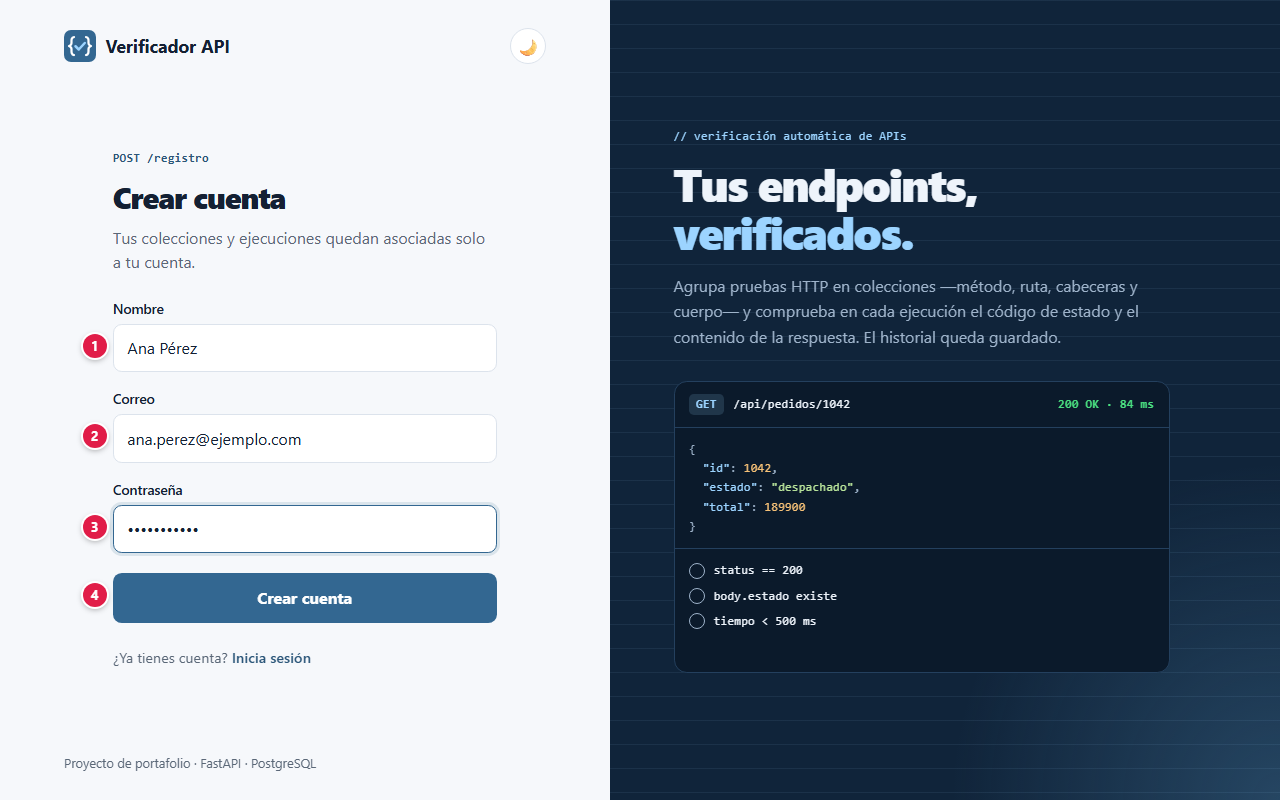
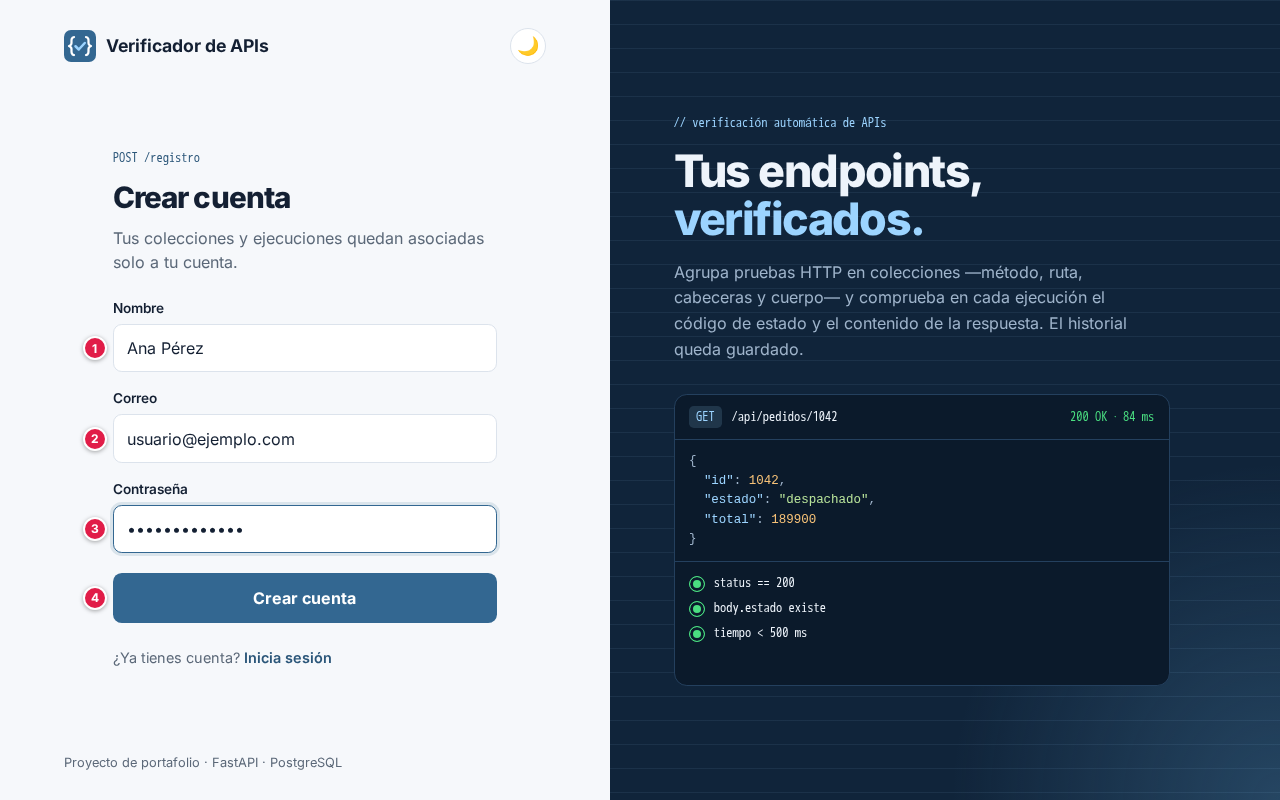
docs: recuperación del autenticador, cierre de sesiones y capturas con "Verificador de APIs" [skip ci]
- Manual y README: "Perdí mi autenticador", el enlace de restablecer solo pide nueva +
  confirmación, se cierran las sesiones y la verificación en dos pasos sigue activa;
  cómo correr las pruebas automáticas.
- Capturas 01 a 07 regeneradas con el nombre nuevo (marcadores 4 y 8 de 04 y 05 ahora
  apuntan a "Crear" y "Guardar prueba"); nueva 08 con la pantalla del código.
- Diagrama de arquitectura con el nombre visible.

diff --git a/docs/MANUAL.md b/docs/MANUAL.md
@@ -1,9 +1,9 @@
-# 📘 Manual de usuario · Verificador API
+# 📘 Manual de usuario · Verificador de APIs
 
 Guía para usar la plataforma paso a paso: qué significa cada campo, qué datos se ingresan y qué
 protege la plataforma. Para la parte técnica vuelve al [README](../README.md).
 
-**Demo:** [Verificador API (AWS Lambda)](https://eofvlnitsiuodup4eywdcenxwu0adgbz.lambda-url.us-east-1.on.aws/)
+**Demo:** [Verificador de APIs (AWS Lambda)](https://eofvlnitsiuodup4eywdcenxwu0adgbz.lambda-url.us-east-1.on.aws/)
 
 ## Contenido
 
@@ -92,6 +92,17 @@ Qué servicio de nube, base de datos o API usa el proyecto y para qué sirve cad
 | 1 | Correo | El correo de tu cuenta |
 | 2 | Contraseña | Tu contraseña |
 | 3 | Entrar | Pide el código de tu verificación en dos pasos; al escribirlo y pulsar **Verificar** se abre **Mis colecciones** |
+| 4 | ¿Olvidaste tu contraseña? | Abre la recuperación de contraseña (ver más abajo) |
+
+Después de **Entrar** aparece la pantalla del código:
+
+![Pantalla del código de la verificación en dos pasos](img/manual/08-verificacion.png)
+
+| # | Elemento | Qué hacer |
+|:-:|---|---|
+| 1 | Código de 6 dígitos | El código que muestra tu app autenticadora (o el que te llegó al correo) |
+| 2 | Verificar | Abre **Mis colecciones** |
+| 3 | Perdí mi autenticador | Si ya no tienes la app: te envía un código al correo (ver **Perdí mi autenticador**) |
 
 ### Olvidé mi contraseña
 
@@ -99,9 +110,29 @@ En **Iniciar sesión**, pulsa **¿Olvidaste tu contraseña?** y escribe tu corre
 está activa, te llega un enlace para crear una contraseña nueva (mínimo 8 caracteres). El enlace vence
 en 30 minutos y sirve una sola vez. La pantalla muestra el mismo mensaje exista o no la cuenta.
 
+En el enlace solo escribes la **contraseña nueva** y su **confirmación**. Al guardarla:
+
+- se cierran todas las sesiones que tuvieras abiertas (en cualquier equipo);
+- tu verificación en dos pasos sigue activa: al ingresar con la contraseña nueva te pide el código
+  como siempre.
+
+### Perdí mi autenticador
+
+Si cambiaste o perdiste el teléfono con la app autenticadora:
+
+1. Inicia sesión con tu correo y contraseña.
+2. En la pantalla del código pulsa **Perdí mi autenticador** (siempre está visible).
+3. Te llega un código de 6 dígitos al correo de tu cuenta, aunque no tengas activado el código por
+   correo. Vence en 15 minutos; si no llegó, pulsa **Enviar otro código**.
+4. Escribe el código y pulsa **Verificar**.
+5. La plataforma te pide **configurar tu app autenticadora nueva**: escanea el QR y escribe el primer
+   código. Recién entonces se abre la sesión y la app anterior deja de servir; si no terminas este
+   paso, la app anterior sigue siendo la válida.
+
 ### Cambiar la contraseña
 
-Con la sesión iniciada, abre **Contraseña** en el menú, escribe la actual y la nueva dos veces.
+Con la sesión iniciada, abre **Contraseña** en el menú, escribe la actual y la nueva dos veces. Tu
+sesión actual sigue abierta y las demás se cierran.
 
 ### Verificación en dos pasos (obligatoria)
 
@@ -216,8 +247,11 @@ Comprobado en el código del proyecto (`app/seguridad.py`, `app/dependencias.py`
 - **Secretos fuera del repositorio:** conexión a PostgreSQL y clave JWT en variables de entorno de
   AWS Lambda.
 - **Bloqueo temporal** ante intentos fallidos repetidos de contraseña o de código.
-- **Registro de eventos de seguridad:** ingresos, intentos fallidos, bloqueos y cambios de
-  contraseña quedan registrados (nunca contraseñas ni códigos) y se depuran solos.
+- **Cambiar o restablecer la contraseña cierra las sesiones abiertas** con la contraseña anterior.
+- **Recuperación del autenticador por correo:** el código llega solo al correo de la cuenta, después
+  de la contraseña; la app anterior se reemplaza únicamente cuando la nueva queda confirmada.
+- **Registro de eventos de seguridad:** ingresos, intentos fallidos, bloqueos, recuperaciones y
+  cambios de contraseña quedan registrados (nunca contraseñas ni códigos) y se depuran solos.
 - **Al día en seguridad:** el runtime, el sistema y las dependencias se mantienen con los últimos
   parches y se revisan periódicamente.
 

diff --git a/README.md b/README.md
@@ -1,4 +1,4 @@
-# Verificador API
+# Verificador de APIs
 
 <p>
   <a href="https://eofvlnitsiuodup4eywdcenxwu0adgbz.lambda-url.us-east-1.on.aws/"><img src="docs/demo-badge.svg" alt="Abrir la demo en vivo" height="32"></a>
@@ -64,6 +64,7 @@ app/
 ├── ejecutor.py            Corre las pruebas de una colección con requests
 ├── routers/               web (inicio), auth, colecciones, ejecuciones
 └── templates/             Jinja2 + Tailwind, tema claro/oscuro
+tests/                     Pruebas automáticas (pytest, SQLite, sin correos reales)
 ```
 
 ---
@@ -135,9 +136,17 @@ Dos detalles importan por tratarse de Neon específicamente:
 
 1. En el inicio de sesión pulsa **¿Olvidaste tu contraseña?** y escribe tu correo. Si la cuenta
    existe, llega un enlace (API de Brevo) que vence en 30 minutos y sirve una sola vez; la respuesta
-   es la misma exista o no la cuenta.
+   es la misma exista o no la cuenta. El enlace solo pide la contraseña nueva y su confirmación; al
+   guardarla se cierran todas las sesiones abiertas y la verificación en dos pasos sigue activa.
 2. Con la sesión iniciada, **Contraseña** (menú superior) cambia la contraseña: pide la actual y la nueva (mínimo
-   8 caracteres).
+   8 caracteres). Las demás sesiones abiertas se cierran.
+
+**Perdí mi autenticador**
+
+En la pantalla del código pulsa **Perdí mi autenticador**: llega un código de 6 dígitos al correo de
+la cuenta (aunque no tengas activado el código por correo) que vence en 15 minutos. Al escribirlo,
+la plataforma pide configurar una app autenticadora nueva (código QR); la sesión se abre y la app
+anterior deja de servir solo cuando la nueva queda confirmada.
 
 ### 5.3 Crear una colección
 
@@ -206,6 +215,16 @@ uvicorn app.main:app --reload --port 8300
 ```
 
 Abre `http://127.0.0.1:8300` y crea tu cuenta.
+
+### Pruebas automáticas
+
+```bash
+pip install pytest httpx
+python -m pytest -q tests
+```
+
+Usan una base SQLite temporal y no envían correos. También corren en cada despliegue: si fallan,
+no se publica nada.
 
 ### Despliegue
 
